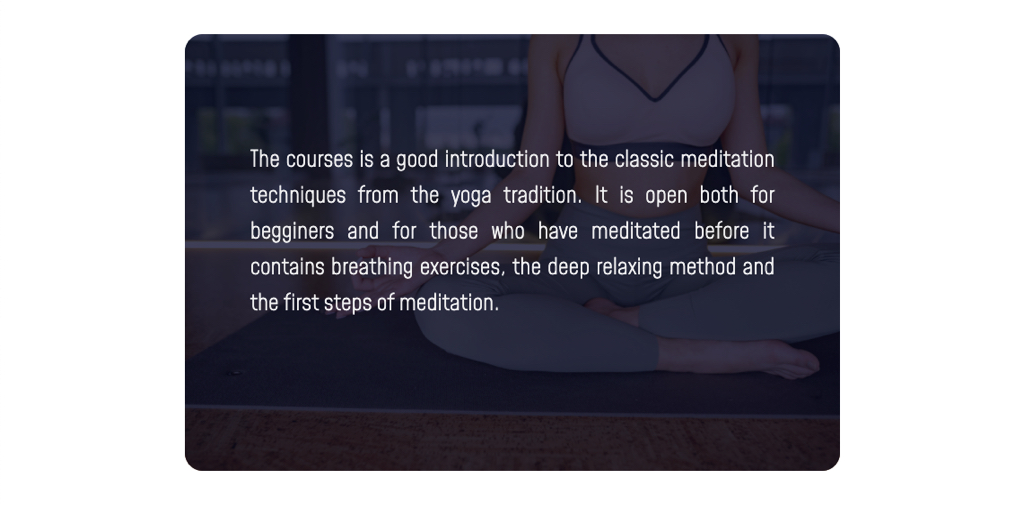
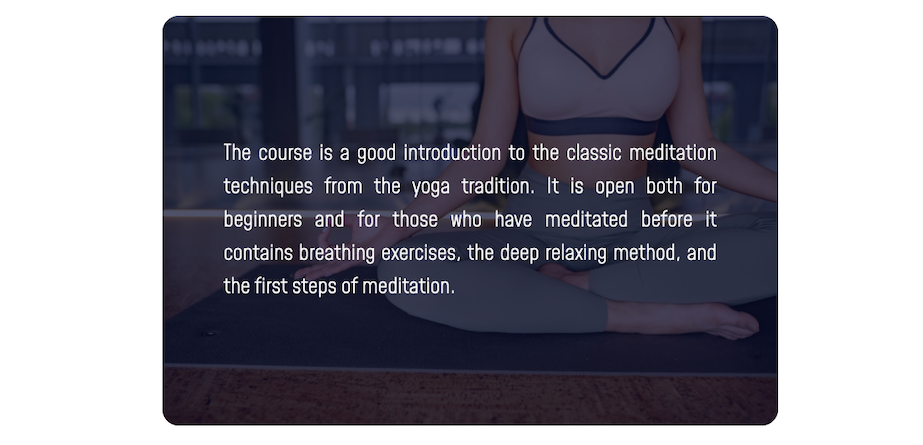
Add Let's start button to the main section on the courses page

Changed region(s): [[0.1517, 0.0292, 0.8494, 0.964], [0.2124, 0.1753, 0.273, 0.2337], [0.455, 0.7011, 0.4854, 0.7303]]

diff --git a/courses.html b/courses.html
@@ -57,7 +57,10 @@
                         alt="A girl who wants to start practicing yoga on the yoga mat">
                     <div class="overlay">
                         <h3>Yoga for Beginners</h3>
-                        <p>Learn basic practical and theoretical knowledge about yoga to see if it suits you. For 45 minutes, for 4 Thursdays our yoga courses will show you the most common yoga position, tools, breathing techniques, and what you need to know to feel comfortable on the yoga mat.</p>
+                        <p>Learn basic practical and theoretical knowledge about yoga to see if it suits you. For 45 minutes, for 4 Thursdays our yoga courses will show you the most common yoga position, tools, breathing techniques, and what you need to know to feel comfortable on the yoga mat.
+                            <a href="signup.html" class="btn">Let's start!</a>
+                        </p>
+                        
                     </div>
                 </div>
                 <div class="courses-category-element" id="two">
@@ -65,7 +68,10 @@
                         alt="A girl meditating on the yoga mat">
                     <div class="overlay">
                         <h3>Meditation Course</h3>
-                        <p>The course is a good introduction to the classic meditation techniques from the yoga tradition. It is open both for beginners and for those who have meditated before it contains breathing exercises, the deep relaxing method, and the first steps of meditation.</p>
+                        <p>The course is a good introduction to the classic meditation techniques from the yoga tradition. It is open both for beginners and for those who have meditated before it contains breathing exercises, the deep relaxing method, and the first steps of meditation.
+                            <a href="signup.html" class="btn">Let's start!</a>
+                        </p>
+                        
                     </div>
                 </div>
                 <div class="courses-category-element" id="three">
@@ -73,7 +79,9 @@
                         alt="Two pregnant girls who practice yoga">
                     <div class="overlay">
                         <h3>Pregnancy Training</h3>
-                        <p>Are you pregnant? Congratulation! This course gives you strength, vitality and helps you feel better, and keeps your body in shape. Exercises give you flexibility during pregnancy. You can choose the day and course length that suits you best.</p>
+                        <p>Are you pregnant? Congratulation! This course gives you strength, vitality and helps you feel better, and keeps your body in shape. Exercises give you flexibility during pregnancy. You can choose the day and course length that suits you best.
+                            <a href="signup.html" class="btn">Let's start!</a>
+                        </p>
                     </div>
                 </div>
         </section>

diff --git a/assets/css/style.css b/assets/css/style.css
@@ -392,6 +392,13 @@ footer {
     opacity: 1;
 }
 
+.courses-category-element .btn {
+    display: block;
+    text-align: center;
+    width: 40%;
+    margin: 20px auto;
+}
+
 /* SIGNUP PAGE */
 
 /* Signup page banner */
@@ -401,7 +408,7 @@ footer {
     background-position: center;
     background-attachment: fixed;
     background-image: linear-gradient(rgba(210, 210, 210, 0.7),rgba(3,8,40,0.7)), url(../images/signup.jpg);
-    margin-top: 128px;
+    margin-top: 100px;
     position: relative;
 }
 
@@ -460,6 +467,10 @@ footer {
         font-size: 6vmin;
     }
 
+    .courses-category-element p {
+        font-size: 2vmin;
+    }
+
     .signup-form h2 {
         font-size: 260%;
     }
@@ -515,6 +526,11 @@ footer {
 
     footer .row {
         flex-direction: row;
+    }
+
+    .courses-category-element p {
+        font-size: 16px;
+        line-height: 20px;
     }
 
     .signup-form {
@@ -595,8 +611,13 @@ footer {
     }
 
     .courses-category-element p {
-        font-size: 14px;
-        line-height: 18px;
+        font-size: 12px;
+        line-height: 16px;
+    }
+
+    .courses-category-element .btn {
+        width: 50%;
+        margin: 8px auto;
     }
 
     .signup-form {
